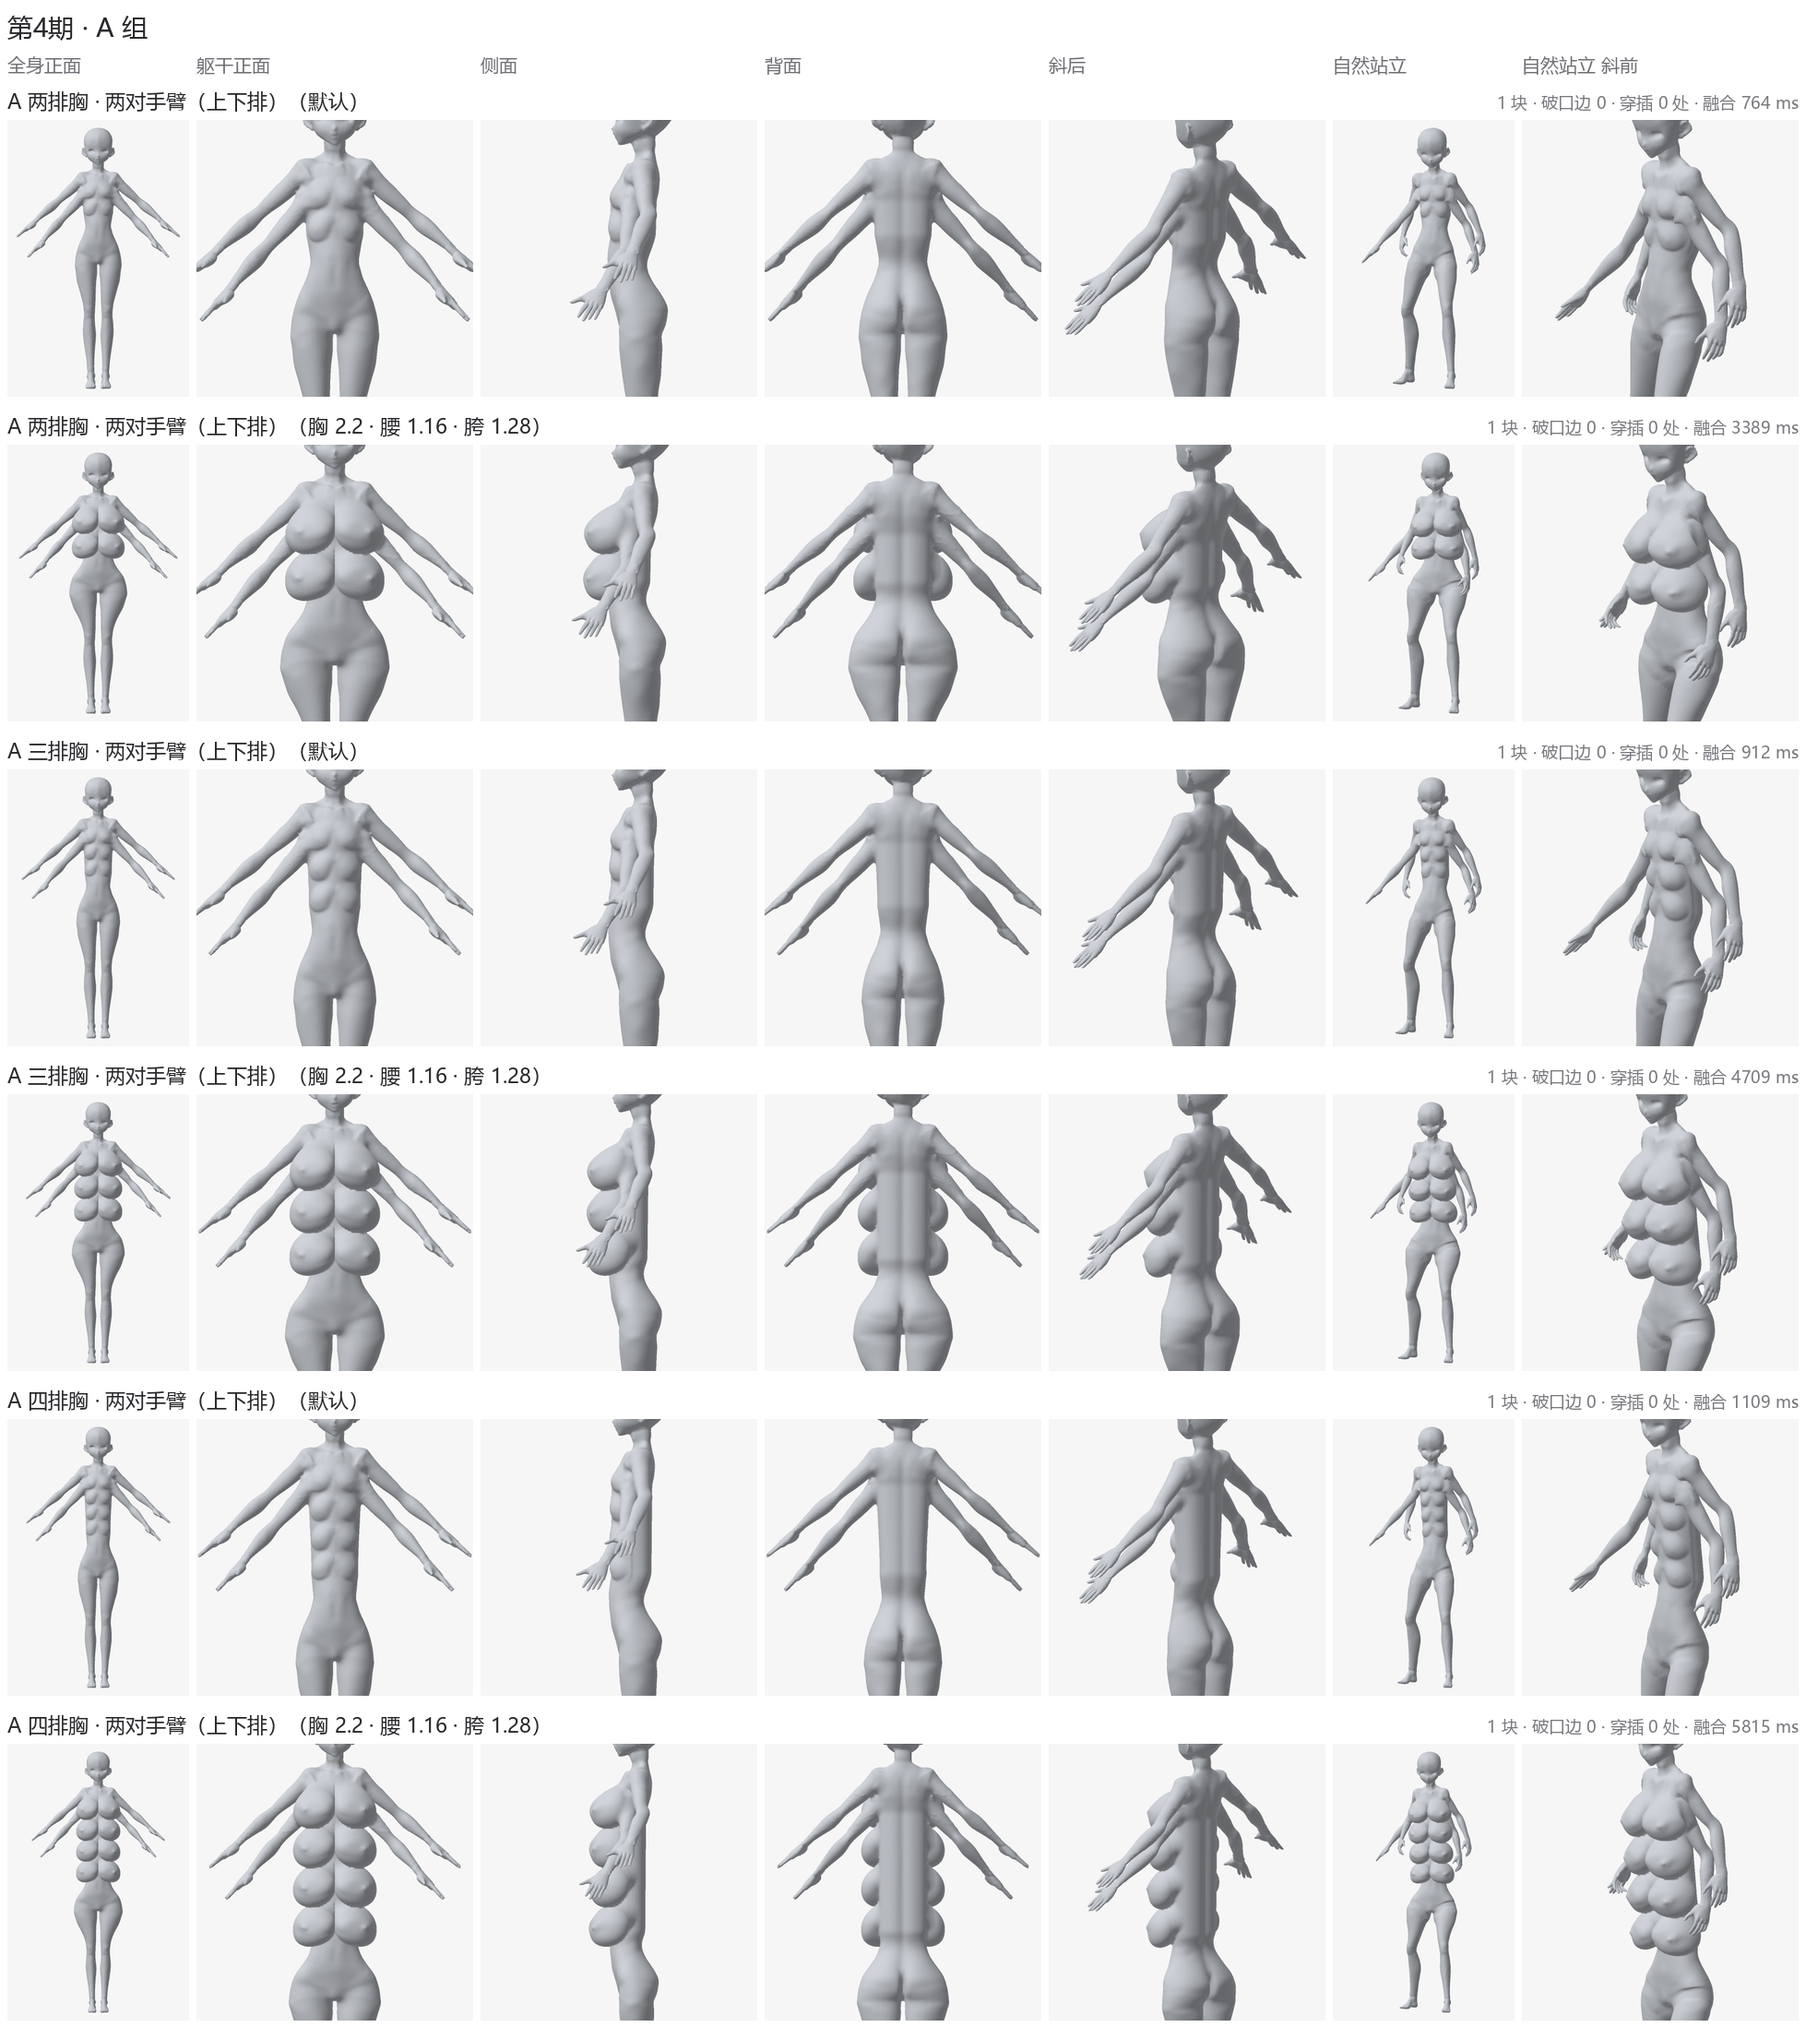
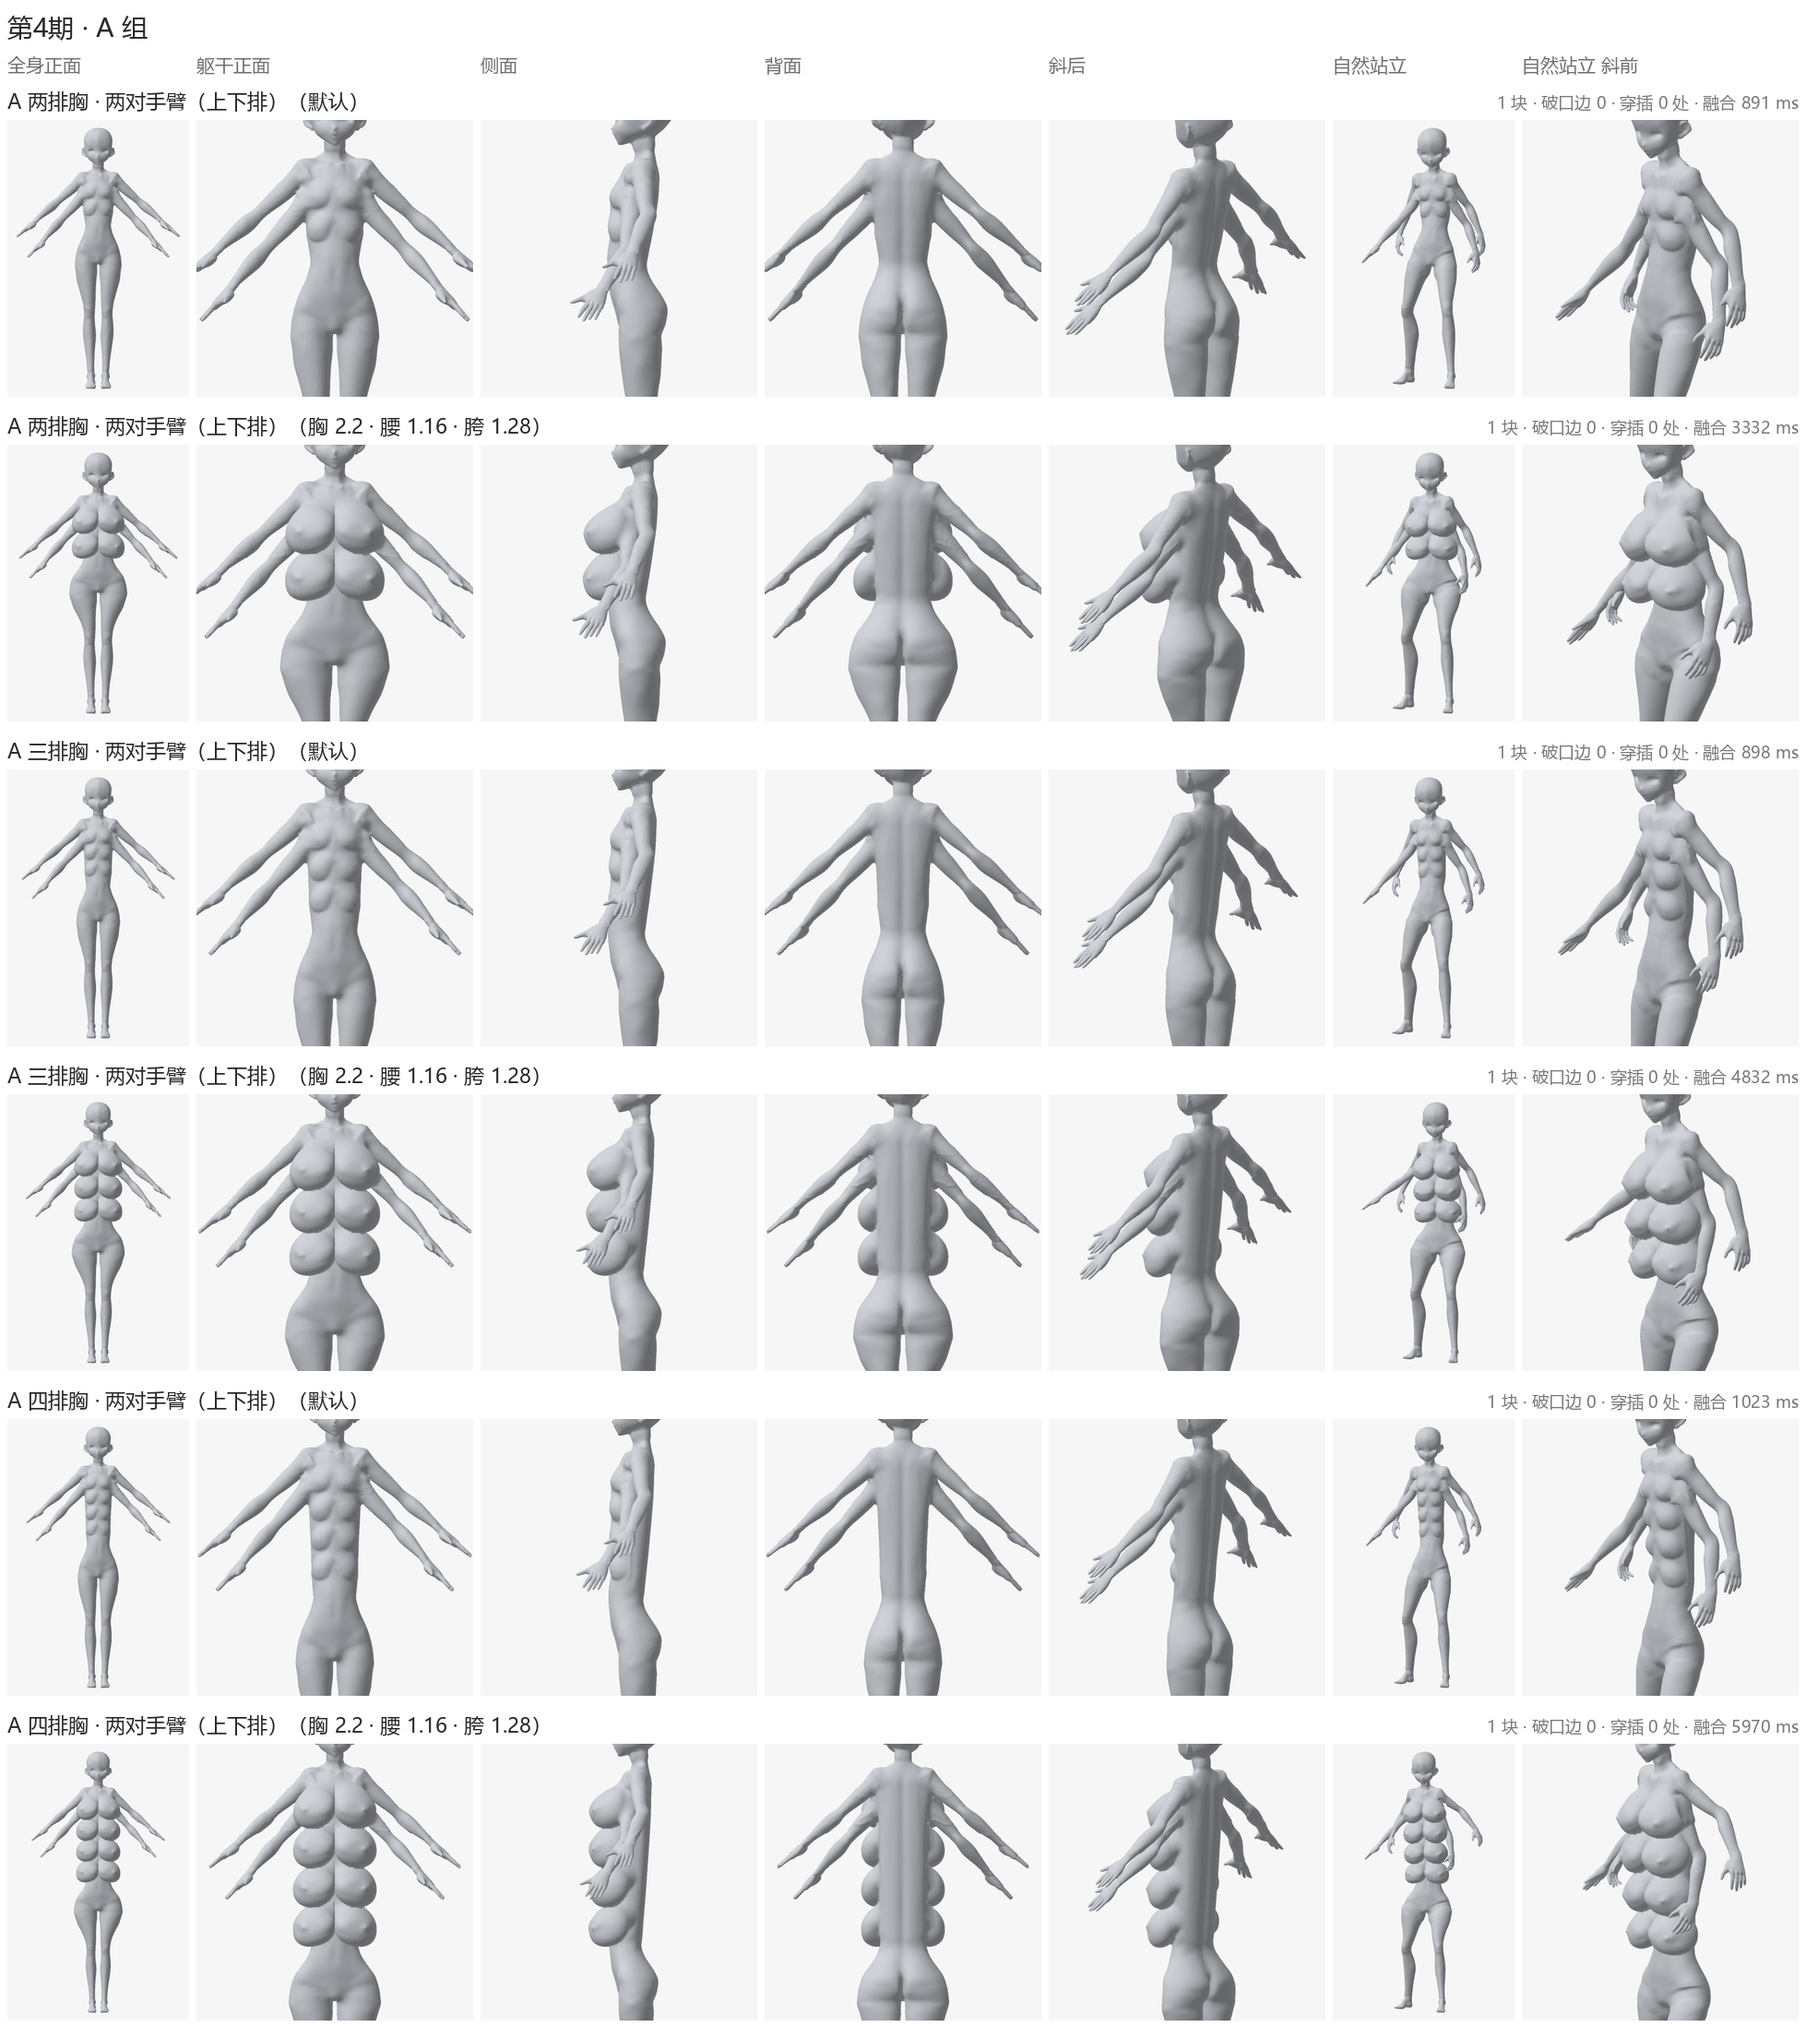
多排胸：接长的那截背照人的背整段拉长
- 胸那边还是照第一排胸中心往下接直筒（下排肋骨、胸不变），背那半边另照一种加长
  （GridShape.backStretch）：素体的背从腰椎最往前到肩胛最往后整段均匀拉长，前后渐变
- 侧面下凹上鼓，背阔肌往腰收的那点 V 形带过来了，接长那截下头那道横的暗带没了
- 测试：多排胸时背一排比一排靠前；验收（docs/accept/4-rows）重出

diff --git a/src/sdf/grids.ts b/src/sdf/grids.ts
@@ -4,7 +4,7 @@
  *
  * 纯计算，在主线程、Web Worker 和单元测试里都能用；数据由外面读进来再登记。
  */
-import type { ChestShape, Fork, SpreadX, Thicken, Twin, WidenBand } from '../geometry/figure';
+import type { BackStretch, ChestShape, Fork, SpreadX, Thicken, Twin, WidenBand } from '../geometry/figure';
 import { type V3, sub } from '../geometry/vec';
 import { chestRegion, chestSkin, chestVersion } from '../anime/chest';
 import type { Dist } from './field';
@@ -101,6 +101,11 @@ export interface GridUse {
   spreadX?: SpreadX;
   /** 再一份和 spreadX 一样算的（多排胸时胸下面接长的那截肋骨往下收窄，k < 1），叠在胯宽上 */
   taperX?: SpreadX;
+  /**
+   * 背那半边另照一种加长（多排胸：胸那边照 stretchY 接一截直筒，背照素体的背整段拉长）：前后 z 在 front 以前照 stretchY，
+   * 到 back 全照 backStretch.stretch，中间渐变。两种加长的总长要一样（再往上就对得上）
+   */
+  backStretch?: BackStretch;
   /**
    * 斜过去（腿往外散开）：往下（-Y）走到 depth 那么深时往 +X 挪满 out，再往下整个平移；y ≥ 0 的不挪。
    * 每个高度上整片平移，膝盖、脚踝还是水平的，脚平踩在地上。镜像之前的坐标，在别的变形外面
@@ -319,6 +324,7 @@ export function gridDist(grid: Grid, use: GridUse = {}): { fn: Dist; min: V3; ma
   const thick = use.thicken;
   const spread = use.spreadX;
   const taper = use.taperX;
+  const back = use.backStretch;
   const [leanOut, leanDepth] = use.lean ?? [0, 1];
   /** 斜过去的那一段（x 随高度一路挪）离表面近了多少：错切的最大伸长倍数 */
   const leanSlope = leanOut / leanDepth;
@@ -424,6 +430,18 @@ export function gridDist(grid: Grid, use: GridUse = {}): { fn: Dist; min: V3; ma
     // 加长过的那一段：换算回加长之前的高度（见 sdf/stretch.ts）
     let y = ly;
     if (extra && y > from) y = y >= to + extra ? y - extra : unstretch(y, stretch);
+    if (back) {
+      // 背那半边照另一种加长换算回去，前后渐变；渐变的那一段高度随前后变，斜着拉过，离表面近一点
+      const w0 = (lz - back.front) / (back.back - back.front);
+      if (w0 > 0) {
+        const t = w0 >= 1 ? 1 : w0 * w0 * (3 - 2 * w0);
+        const dt = w0 >= 1 ? 0 : (6 * w0 * (1 - w0)) / (back.front - back.back);
+        const dy = unstretch(ly, back.stretch) - y;
+        y += dy * t;
+        const lip = Math.sqrt(1 + dy * dt * (dy * dt));
+        if (lip > squeeze) squeeze = lip;
+      }
+    }
     if (bands.length) {
       // 加宽、收窄过的地方：换算回原来离中线多远。
       // 原来离中线 s 的点现在在 s + Σ a·smoothstep(s / core)，每段的 a 随高度从 0 变到 amount；反过来求 s 也是牛顿法

diff --git a/src/geometry/animeLayout.ts b/src/geometry/animeLayout.ts
@@ -138,6 +138,14 @@ const ROW_DROOP = 15;
  * 胸越大收得越少，胸 2 以上不收：大胸把躯干两边挡住了，最下面一排的下半截又正好在变回原样的那一段上，胸外侧被扯成方角
  */
 const ROW_TAPER = 0.3;
+/**
+ * 多排胸时接长的那截背（见 GridShape.backStretch）：胸那边照 ROW_STRETCH 接一截直筒，背那半边换成把素体的背从腰上最往前的那一点（腰椎）
+ * 到肩胛最往后的那一点（BACK_BAND，两头渐变 ROW_RAMP）整段均匀拉长。不然接长的那截背是照胸下面一圈原样往下接的：
+ * 侧面看一段直上直下的平板、两头各拐一下（背面看下头一道横的暗带），背面两条竖线平行到底，像根管子；
+ * 整段拉长以后侧面下凹上鼓，背阔肌往腰收的那点 V 形、腰窝都带过来了。前后 z 在 BACK_BLEND[0] 以前（胸）照直筒，到 BACK_BLEND[1] 全照背的
+ */
+const BACK_BAND: [number, number] = [1.06, 1.24];
+const BACK_BLEND: [front: number, back: number] = [0.03, -0.03];
 /** 多排胸时手臂沿躯干上下排隔多远：第二对从第一对下面一点、腋下的肋骨侧面长出来（照参考图 A-arms-3d、A-rows-arms），不跟着胸一排排往下 */
 const ARM_ROW = 0.1;
 /** 腰最细的地方大概多高（人腿人马后面接的那截腰照这里的粗细） */
@@ -403,6 +411,7 @@ export function layoutAnime(spec: BodySpec): Figure {
   const plain = grid('Torso', 'torso', 1, {
     ...(stretch ? { stretchY: stretch } : {}),
     ...(taper ? { taperX: taper } : {}),
+    ...(stretch && c.chestPairs > 1 ? { backStretch: { stretch: [BACK_BAND[0], BACK_BAND[1], extra, ROW_RAMP] as Stretch, front: BACK_BLEND[0], back: BACK_BLEND[1] } } : {}),
     ...(c.chestPairs > 0 || flat ? { morph: [animeGrid('torsoFlat'), c.chestPairs > 0 ? 1 : flat] as [string, number] } : {}),
     // 肩膀加宽：从胸口往上逐渐加宽；腰在那一段加宽、收窄；胯按比例拉宽
     ...(bands.length ? { widenX: bands } : {}),

diff --git a/src/geometry/figure.ts b/src/geometry/figure.ts
@@ -137,6 +137,8 @@ export interface GridShape extends Mass {
   spreadX?: SpreadX;
   /** 再一份按比例压窄（多排胸时胸下面接长的那截肋骨往下收），见 sdf/grids.ts 的 GridUse.taperX */
   taperX?: SpreadX;
+  /** 背那半边另照一种加长（多排胸时接长的那截背照素体的背整段拉长），见 sdf/grids.ts 的 GridUse.backStretch */
+  backStretch?: BackStretch;
   /** 斜过去（腿胯部聚拢时往外散开），见 sdf/grids.ts 的 GridUse.lean */
   lean?: [out: number, depth: number];
   /** 从胯往上渐渐分开（好几个上半身），见 sdf/grids.ts 的 GridUse.fork */
@@ -177,6 +179,15 @@ export interface SpreadX {
   rise: number;
   k: number;
   levels: [top: number, full: number, fullTo: number, bottom: number];
+}
+
+/** 背那半边另照一种加长：见 sdf/grids.ts 的 GridUse.backStretch */
+export interface BackStretch {
+  /** 背那半边怎么加长（加长的总长和 stretchY 一样） */
+  stretch: Stretch;
+  /** 前后 z 在 front 以前照 stretchY，到 back 全照 stretch，中间渐变 */
+  front: number;
+  back: number;
 }
 
 /** 从胯往上渐渐分开：见 sdf/grids.ts 的 GridUse.fork */

diff --git a/tests/rows.test.ts b/tests/rows.test.ts
@@ -66,6 +66,21 @@ describe('二次元素体的多排胸', () => {
     expect(b3 - a3).toBeGreaterThan((b0 - a0) * 0.9);
   });
 
+  it('接长的那截背照人的背拉长：侧面看从第一排往下一排比一排靠前（不是一段直上直下的平板）', () => {
+    for (const n of [2, 4]) {
+      for (const bust of [1, 2.2]) {
+        const f = rows(n, bust);
+        const torso = f.parts.find((p) => p.name === 'Torso')!;
+        const field = compileField({ ...f, parts: [torso] }, { blend: 0 });
+        const s = f.scale;
+        /** 世界坐标高度 y 上，离中线 3 厘米那一竖条的背在哪 */
+        const back = (y: number) => -0.5 * s + castRay(field, [0.03 * s, y, -0.5 * s], [0, 0, 1], 0.5 * s);
+        const zs = chests(f, 1).map((p) => back((torso.pos[1] + p.pos[1]) * s));
+        for (let j = 1; j < n; j++) expect(zs[j] - zs[j - 1], `${n} 排 胸 ${bust} 第 ${j + 1} 排`).toBeGreaterThan(0.005 * s);
+      }
+    }
+  });
+
   it('大胸上排胸底压在下排上缘（排距比上排的下半截加下排的上半截短一点），小胸上下排挨着', () => {
     for (const [bust, overlap] of [
       [2.2, true],

diff --git a/docs/rework-plan.md b/docs/rework-plan.md
@@ -116,6 +116,12 @@
 - 规矩改了一条：下排那截肋骨不再「和第一排一样宽」，往下慢慢收（测试改成小胸一排比一排窄、不比第一排胸那里窄两成以上，大胸一样宽；加了一条下排胸正面宽度的）。
 - 验收重出在 [accept/4-rows](accept/4-rows/)（覆盖了原来那套，原来的在 60a590b）。
 
+背（11-02，他说「再优化一下背部的表现，使其更有人类背部的质感，然后开始 P5」）：
+- 毛病：接长的那截背是照胸下面一圈原样往下接的。侧面看一段直上直下的平板、两头各拐一下（背面看下头一道横的暗带）；背面两条竖线平行到底，像根管子。脊柱沟本身不深（素体 3.5–6 毫米，接长的那截 5–5.5 毫米，差得不多，不是它）。
+- 改成背那半边另照一种加长（`GridShape.backStretch`）：胸那边还是照第一排胸中心往下 5 厘米接直筒（下排坐的肋骨、胸都不变），背那半边把素体的背从腰上最往前的那一点（腰椎，1.06）到肩胛最往后的那一点（1.24）整段均匀拉长到一样长；前后 z 在 +3 厘米以前照直筒，到 −3 厘米全照背的，中间渐变。两点上背的斜度都是零，上下接得上。侧面下凹上鼓，背阔肌往腰收的那点 V 形、腰窝都带过来了，横暗带没了。
+- 试过的：只照背弧往后、往前挪（侧面有弧度了，但背上的样子还是原样往下接的）；拉到 1.20（和 1.24 差不多）。
+- 测试：多排胸时从第一排往下，背一排比一排靠前 5 毫米以上（改前四排时后面几排只差 1 毫米）。
+
 ### 第 5 期　B（两个上半身 + 一对腿）
 
 - 二次元素体两个上半身改成：直立不歪，里侧贴在一起，各自的腰，到胯并成一副宽胯（胯宽照两个腰算），一对腿。
